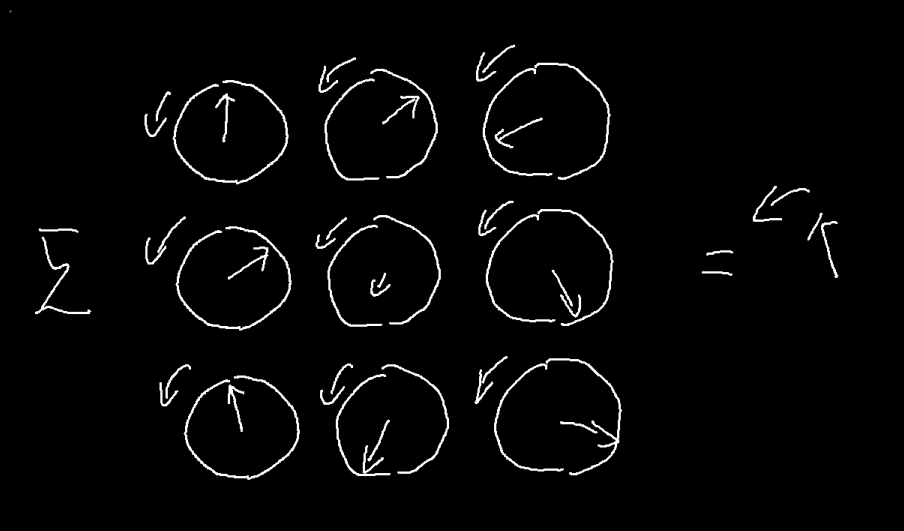
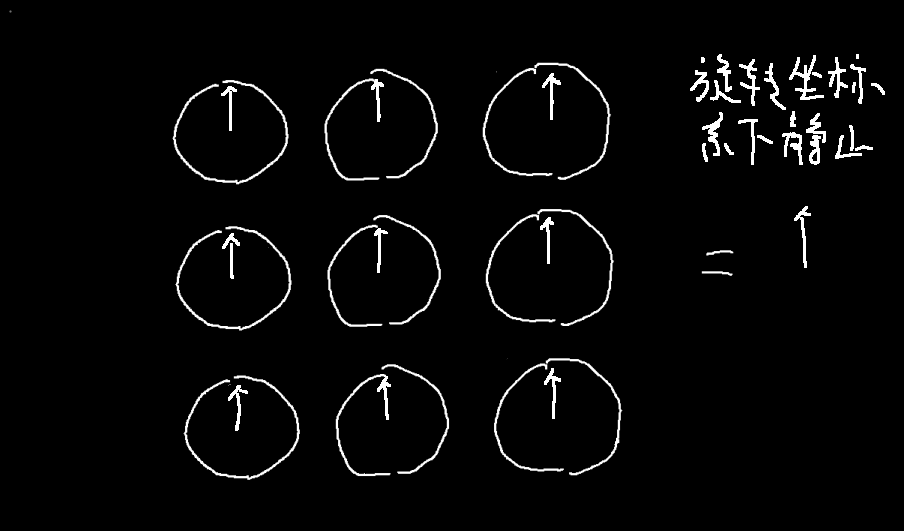
-

diff --git a/docs/natural_science/ns_3.md b/docs/natural_science/ns_3.md
@@ -66,12 +66,12 @@
 
 &emsp;&emsp;最后，小磁针旋转产生的信号强度十分微弱，我们需要一个优秀的"耳朵"来听这个声音，因此还需要一个接受线圈来捕捉信号，这个线圈一般会根据需要扫描的部位进行放置，比如头线圈，身体线圈，肢体线圈等等。
 
-&emsp;&emsp;这其中，永磁场在正常情况下是不能控制的，但是梯度线圈和射频线圈都是需要精密的信号设计和控制的，而这些信号的设计即使前面提到的序列设计。
+&emsp;&emsp;这其中，静态磁场在正常情况下是不能控制的，但是梯度线圈和射频线圈都是需要精密的信号设计和控制的，而这些信号的设计即使前面提到的序列设计。
 
-&emsp;&emsp;这只是一个大概的结构，一些线圈是可以双工（即既可以发射也可以接受信号）的，那么射频发射线圈和射频接受线圈是同一个线圈（不能同时使用和单工各有优缺，体现在信号强度，功率是否过大，噪声多少等方面）
+&emsp;&emsp;这只是一个大概的结构，一些线圈是可以双工（即既可以发射也可以接受信号）的，那么射频发射线圈和射频接受线圈是同一个线圈（不能同时使用和单工各有优缺，体现在信号强度，功率是否过大，对信号的敏感性等方面）
 
 
-## 五、T-1 T-2 弥散
+## 五、T1 T2 弥散
 
 &emsp;&emsp;我们前面提到了，"震动"实际是磁化矢量绕着B0进行旋转，而这变化的磁场发出了电磁波。
 
@@ -85,12 +85,22 @@
 
 &emsp;&emsp;而就像大部分的运动一样，原磁化矢量消失需要时间，新的磁化矢量出现也需要时间。在不同的环境（如水分子中/氨基酸中）这两个时间不同。
 
-&emsp;&emsp;T-1和T-2像就是分别去考量了出现和消失所需的时间。在前一个磁化矢量开始衰减一段时间后进行测量再和没有衰减的时候进行对比，我们就得到了T-1像。而趁着旧的磁化矢量刚刚消失，新的磁化矢量还没有完全生成，我们就用梯度磁场和激励磁场将新的磁化矢量激发，然后检测，并和完全生成的磁化矢量得到的图像进行对比，就得到了T-2像。
+&emsp;&emsp;T1和T2像就是分别去考量了出现和消失所需的时间。在前一个磁化矢量开始衰减一段时间后进行测量，我们就得到了T2加权像。而趁着旧的磁化矢量刚刚消失，新的磁化矢量还没有完全生成，我们就用梯度磁场和激励磁场将新的磁化矢量激发，然后检测，就得到了T1加权像。
 
-&emsp;&emsp;生物体的内部不是静态的一坨浆糊，而是有可以扩散的液体的。由于就像音叉没了激励源声音后，仍然能够响一会一样，即使没有了激励源，氢原子也会继续自旋一段时间，那么，我们就可以用自旋来标记我们通过梯度和激励频率的平面内的氢原子，然后检测这些被标记的原子的扩散情况，这样可以得到体内一些扩散能力在各个方向有区别的组织（比如神经纤维）的方向。
+&emsp;&emsp;具体来说，对于任意的一个磁化矢量，都可以被分成平行于静态磁场方向的纵向残余矢量$M_z$和横向残余矢量$M_{xy}$，假设在没有被激发时，磁化矢量在B0方向能够达到的最大值为$M_0$，那么随着时间的增加，纵向残余矢量和这个$M_0$之间的差距会逐渐指数减小，而横向残余矢量本身会逐渐指数减小，后者的变化速度更快。量化的来说$M_0-M_z(t)=e^{-\frac{1}{T_1}(M_0-M_z(t=0))}$而$M_{xy}(t)=e^{-\frac{1}{T_2}(M_{xy}(t=0))}$
+
+![img.png](../resources/ns_3/img_14.png)
+
+&emsp;&emsp;当然，对于$M_{xy}$来说，它还有转动频率和相位等信息，这些会在之后再提到。对于两个不同的材料，下图表示了T1和T2的过程。
+
+![img_1.png](../resources/ns_3/img_15.png)
+
+&emsp;&emsp;这样一来，我们通过T1和T2就可以将不同的组织区分开来了，如果我们在不同的时机测多次，我们也可以定量地计算材料的T1、T2值。
+
+&emsp;&emsp;生物体的内部不是静态的一坨浆糊，而是有可以扩散的液体的。由于就像音叉没了激励源声音后，仍然能够响一会一样，即使没有了激励源，小磁针也会继续旋转一段时间（满足之前T2相关的内容），那么，我们就可以通过一个方向上的梯度磁场使得平面上各位置的小磁针旋转出现相位差，等一段时间让它们扩散，然后再施加一个和刚才那个梯度磁场方向相反的磁场，让各个位置的相位恢复，但是这个过程中，有的小磁针在平面上发生扩散，跑到了其他小磁针的位置，跟着这些小磁针发生反向的相位偏差，它就回不到原始的相位了，然后通过检测哪些地方的小磁针没有回到初始的相位，就可以得到体内一些扩散能力在各个方向有区别的组织（比如神经纤维）的方向。
 
 
-## 六、更好的信号处理：k空间
+## 六、信号处理：k空间
 
 ### 傅里叶变换
 
@@ -120,7 +130,7 @@ $$\overline{x} = \frac{x_1p_1 + x_2p_2 + ... + x_np_n}{p_1 + p_2 + ... p_n}$$
 
 $$\overline{x} = \frac{\int^{+\infin}\_{-\infin}f(x)p(x)dx}{\int^{+\infin}\_{-\infin}p(x)dx}$$
 
-&emsp;&emsp;注意到$\int^{+\infin}\_{-\infin}f(x)p(x)dx$和傅里叶变换中的$\int^{+\infin}_{-\infin}f(t)\cdot e^{-\omega ti}dt$是不是很像？所以说，傅里叶变换也可以以被理解成一种加权。
+&emsp;&emsp;（注意，这只是一个比喻，真正在傅里叶变换中用到的函数使得上式中的分子积分没有意义）注意到$\int^{+\infin}\_{-\infin}f(x)p(x)dx$和傅里叶变换中的$\int^{+\infin}_{-\infin}f(t)\cdot e^{-\omega ti}dt$是不是很像？所以说，傅里叶变换也可以以被理解成一种加权。
 
 &emsp;&emsp;最后，傅里叶变换还存在一个逆变换，可以用$\mathscr{F}(\omega)$反过来得到$f(x)$，具体是什么既然我们不需要计算我就不写了<del>（绝对不是因为我懒）</del>。
 
@@ -150,7 +160,7 @@ $$\mathscr{F}(\omega, v) = \int^{+\infin}\_{-\infin}\int^{+\infin}\_{-\infin}f(x
 
 &emsp;&emsp;前面我们提到了，傅里叶变换中$e^{-\omega xi-vyi}$是个复数，而我们之前都只考虑的了实数的部分。但是我们实际在磁共振中使用的数据是复数（小磁针的幅度和相位差，相位差就是两个小磁针现后转动，用来表征这个时间差的量，这两个量可以用一个复平面中的向量来表达，用向量的长度来表示偏转的幅度，用向量相对横轴正方向的转动角度来表示相位差），所以我们需要再说一说复数中的傅里叶变换。这里，我就找不到一个好的图像来表示了，不过，我们可以从前面的信息里面知道，我们可以通过对信号加权一个函数（这里是个复函数）然后积分#得到$\mathscr{F}(\omega, v)$的值。
 
-&emsp;&emsp;这里要再提到一个东西，复数的相乘可以理解为他们的长度发生相乘，然后他们与横轴正方向之间的偏差进行相加，如果两个相乘的向量中，有一个向量的幅值为1，那么就是在改变另一个向量的相位。而我们之前见过很多次，我一直说简化为$cos(\omega t + \theta)$的$e ^ {\omega t + \theta}$在复平面就是一个长度为1的向量，那么它的相位是多少呢？可以这么理解，在最初的时候，其相位为$\theta$，然后从这里开始，它以$\omega$的频率开始旋转，旋转$t$时间，就是当前的相位。
+&emsp;&emsp;这里要再提到一个东西，复数的相乘可以理解为他们的长度发生相乘，然后他们与横轴正方向之间的偏差进行相加，如果两个相乘的向量中，有一个向量的幅值为1，那么就是在改变另一个向量的相位。而我们之前见过很多次，我一直说简化为$cos(\omega t + \theta)$的$e ^ {\omega ti + \thetai}$在复平面就是一个长度为1的向量，那么它的相位是多少呢？可以这么理解，在最初的时候，其相位为$\theta$，然后从这里开始，它以$\omega$的频率开始旋转，旋转$t$时间，就是当前的相位。
 
 &emsp;&emsp;这时候我们再看对于任意$\omega, v$的加权函数$p(x, y) = e^{-\omega xi-vyi}$，首先我们要注意的是，只有函数值是复数，函数的自变量并不是复数。可以这样理解，我们使用复数，相当于把两个不同的参数放到了一个复数里，你也可以用类似的方法把3个、4ge甚至更多个参数放到一个数里，然后说这个函数的输出是3维、4维的等等，我们使用复数的原因是因为复数有很多很好的性质方便使用。由此，我们之前二维的分析中对加权函数的分析都是可行的。我们注意前面所说的$p(x, y) = e^{-\omega xi-vyi}$这条直线，其方向上的加权函数$e^{-(\omega^2+v^2)\omega xi}$对应的相位差改变$-(\omega^2+v^2)\omega xi$在其方向上是线性改变的，如果以相位差作为纵轴大概是这个样子的：
 
@@ -164,7 +174,7 @@ $$\mathscr{F}(\omega, v) = \int^{+\infin}\_{-\infin}\int^{+\infin}\_{-\infin}f(x
 
 &emsp;&emsp;那么回到最初的问题，我们只要有方法在原始数据上做一个加权操作，我们就能够得到k空间内（$\mathscr{F}(\omega, v)$的函数值）内的数据了，然后我们就可以快乐地用傅里叶逆变换了，那么如何进行加权呢？
 
-&emsp;&emsp;我们依旧考虑之前那个只有27块组织的生物，假设我们已经通过梯度+电磁波激发的方式选定了中间的这层，我们现在将每个组织块的小磁针的转动方向和强度用一个矢量（磁化矢量在xOy上的投影）来表示，这些矢量会以一个相同的频率进行旋转，它们叠加出来的矢量也会以这个频率旋转：
+&emsp;&emsp;我们依旧考虑之前那个只有27块组织的生物，假设我们已经通过梯度+电磁波激发的方式选定了中间的这层，我们现在将每个组织块的小磁针的转动方向和强度用一个矢量（磁化矢量在xOy上的投影）来表示，这些矢量会以一个相同的频率进行旋转，它们叠加出来的矢量也会以这个频率旋转。
 
 ![img_1.png](../resources/ns_3/img_11.png)
 
@@ -178,4 +188,8 @@ $$\mathscr{F}(\omega, v) = \int^{+\infin}\_{-\infin}\int^{+\infin}\_{-\infin}f(x
 
 &emsp;&emsp;这种情况下，我们通过调整施加梯度磁场的时间，可以调整各个磁化矢量的相位相较于没有施加梯度磁场时的相位差，记得之前我们说到，复函数的二维傅里叶变换，就是在用一个线性相位改变函数进行加权的结果。这是我们仅仅施加x方向上的梯度磁场的结果，如果我们同时或者先后施加y方向、z方向上的梯度磁场，我们可以让这个线性的相位改变函数符合任何我们所需的权重函数的形式，也就说，我们找到了一种进行傅里叶变换的方法。
 
-&emsp;&emsp;而且，这种方法可以非常方便地叠加。比如相同的梯度磁场，如果我们施加1ms，对应着得到$\mathscr{F}(\omega, v)$的值，接着如果我们继续施加1ms，我们就能得到$\mathscr{F}(2\omega, 2v)$的值，将这个梯度磁场反向，然后施加2ms，我们又回到了$\mathscr{F}(0, 0)$这使得我们可以方便地设计梯度磁场来"走过"足够的k空间内的数据点。最后，我们就可以用洛伦兹反变换（离散情况的）得到我们需要的数据了。
+&emsp;&emsp;而且，这种方法可以非常方便地叠加。比如相同的梯度磁场，如果我们施加1ms，对应着得到$\mathscr{F}(\omega, v)$的值，接着如果我们继续施加1ms，我们就能得到$\mathscr{F}(2\omega, 2v)$的值，将这个梯度磁场反向，然后施加2ms，我们又回到了$\mathscr{F}(0, 0)$这使得我们可以方便地设计梯度磁场来"走过"足够的k空间内的数据点。最后，我们就可以用傅里叶反变换（离散情况的）得到我们需要的数据了。
+
+### 频率编码
+
+&emsp;&emsp;前面我们说到过，一维的傅里叶变换可以看作从时域到频域的转换，而我们上面所说的操作中，已经通过梯度磁场让选定的层内的磁化矢量的频率发生了区别，那么我们能不能利用一维傅里叶变换的性质来获取某一串小磁针的数据呢？当然是可以的，我们可以通过调整梯度磁场和采样的间隔，得到一个时间信号，然后进行进行一维的傅里叶变换，就能拿到频域的函数，我们已经知道了每一串小磁针对应的频率，我们就可以在其中找到我们需要的信息。
